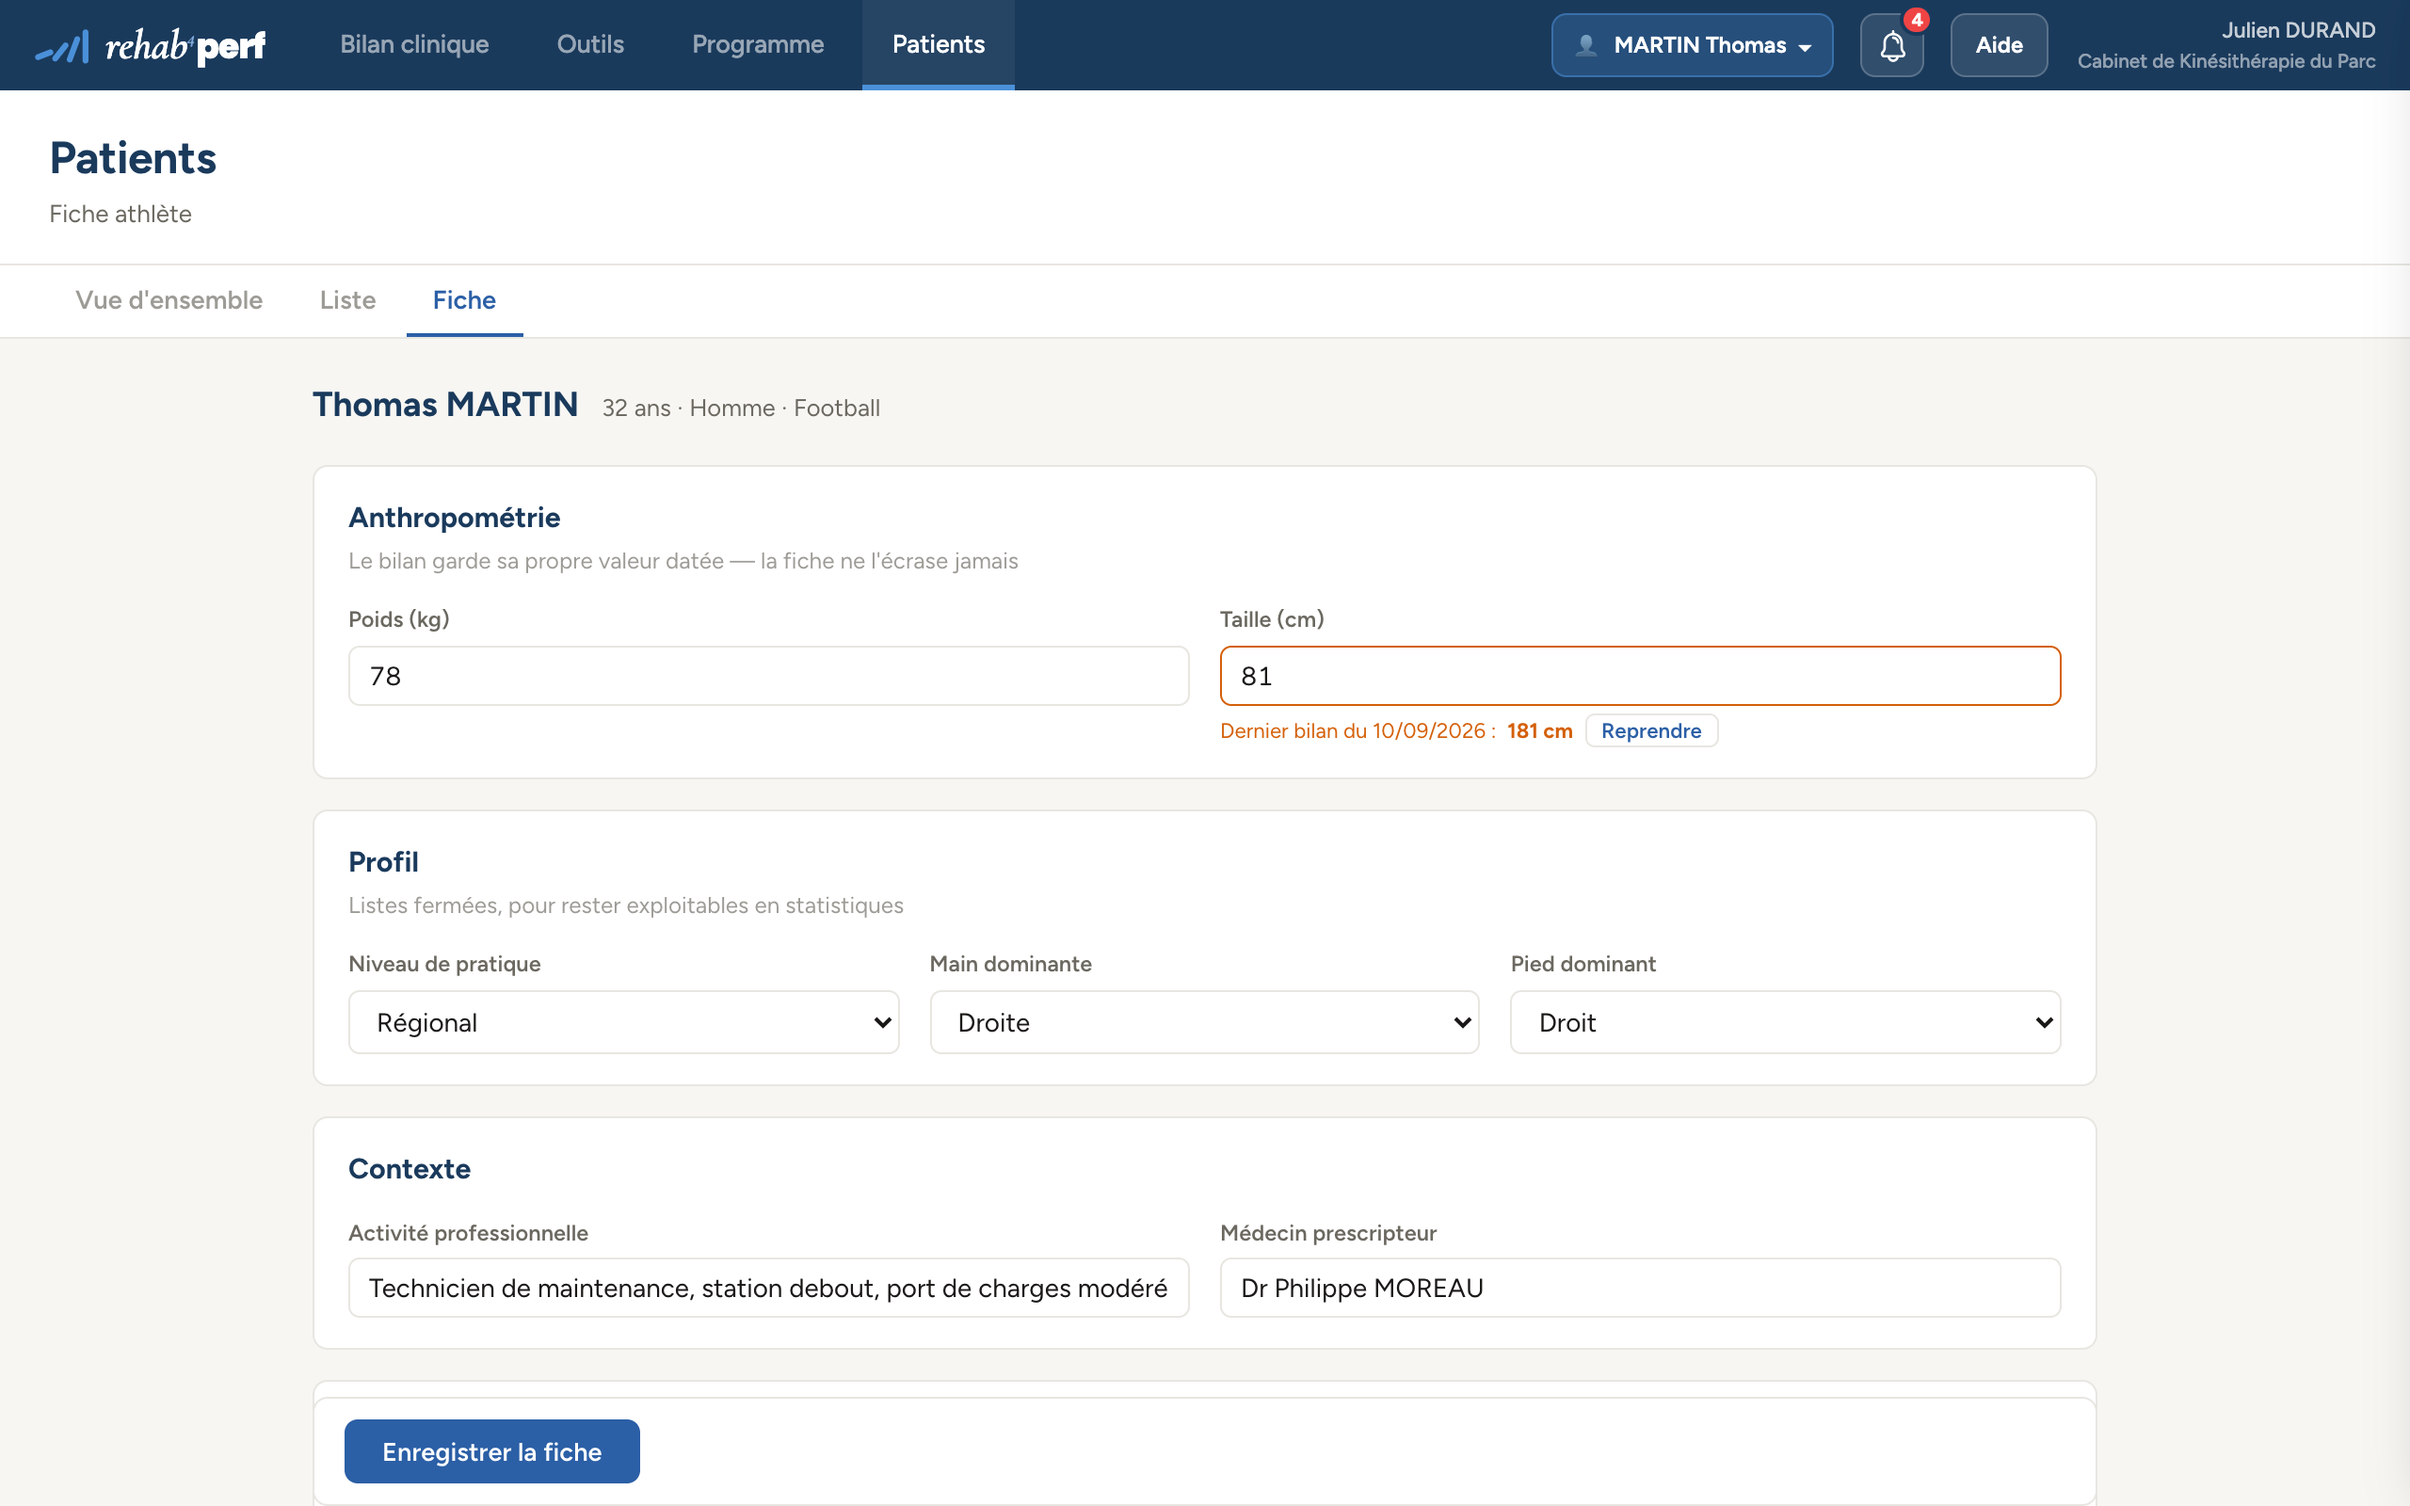
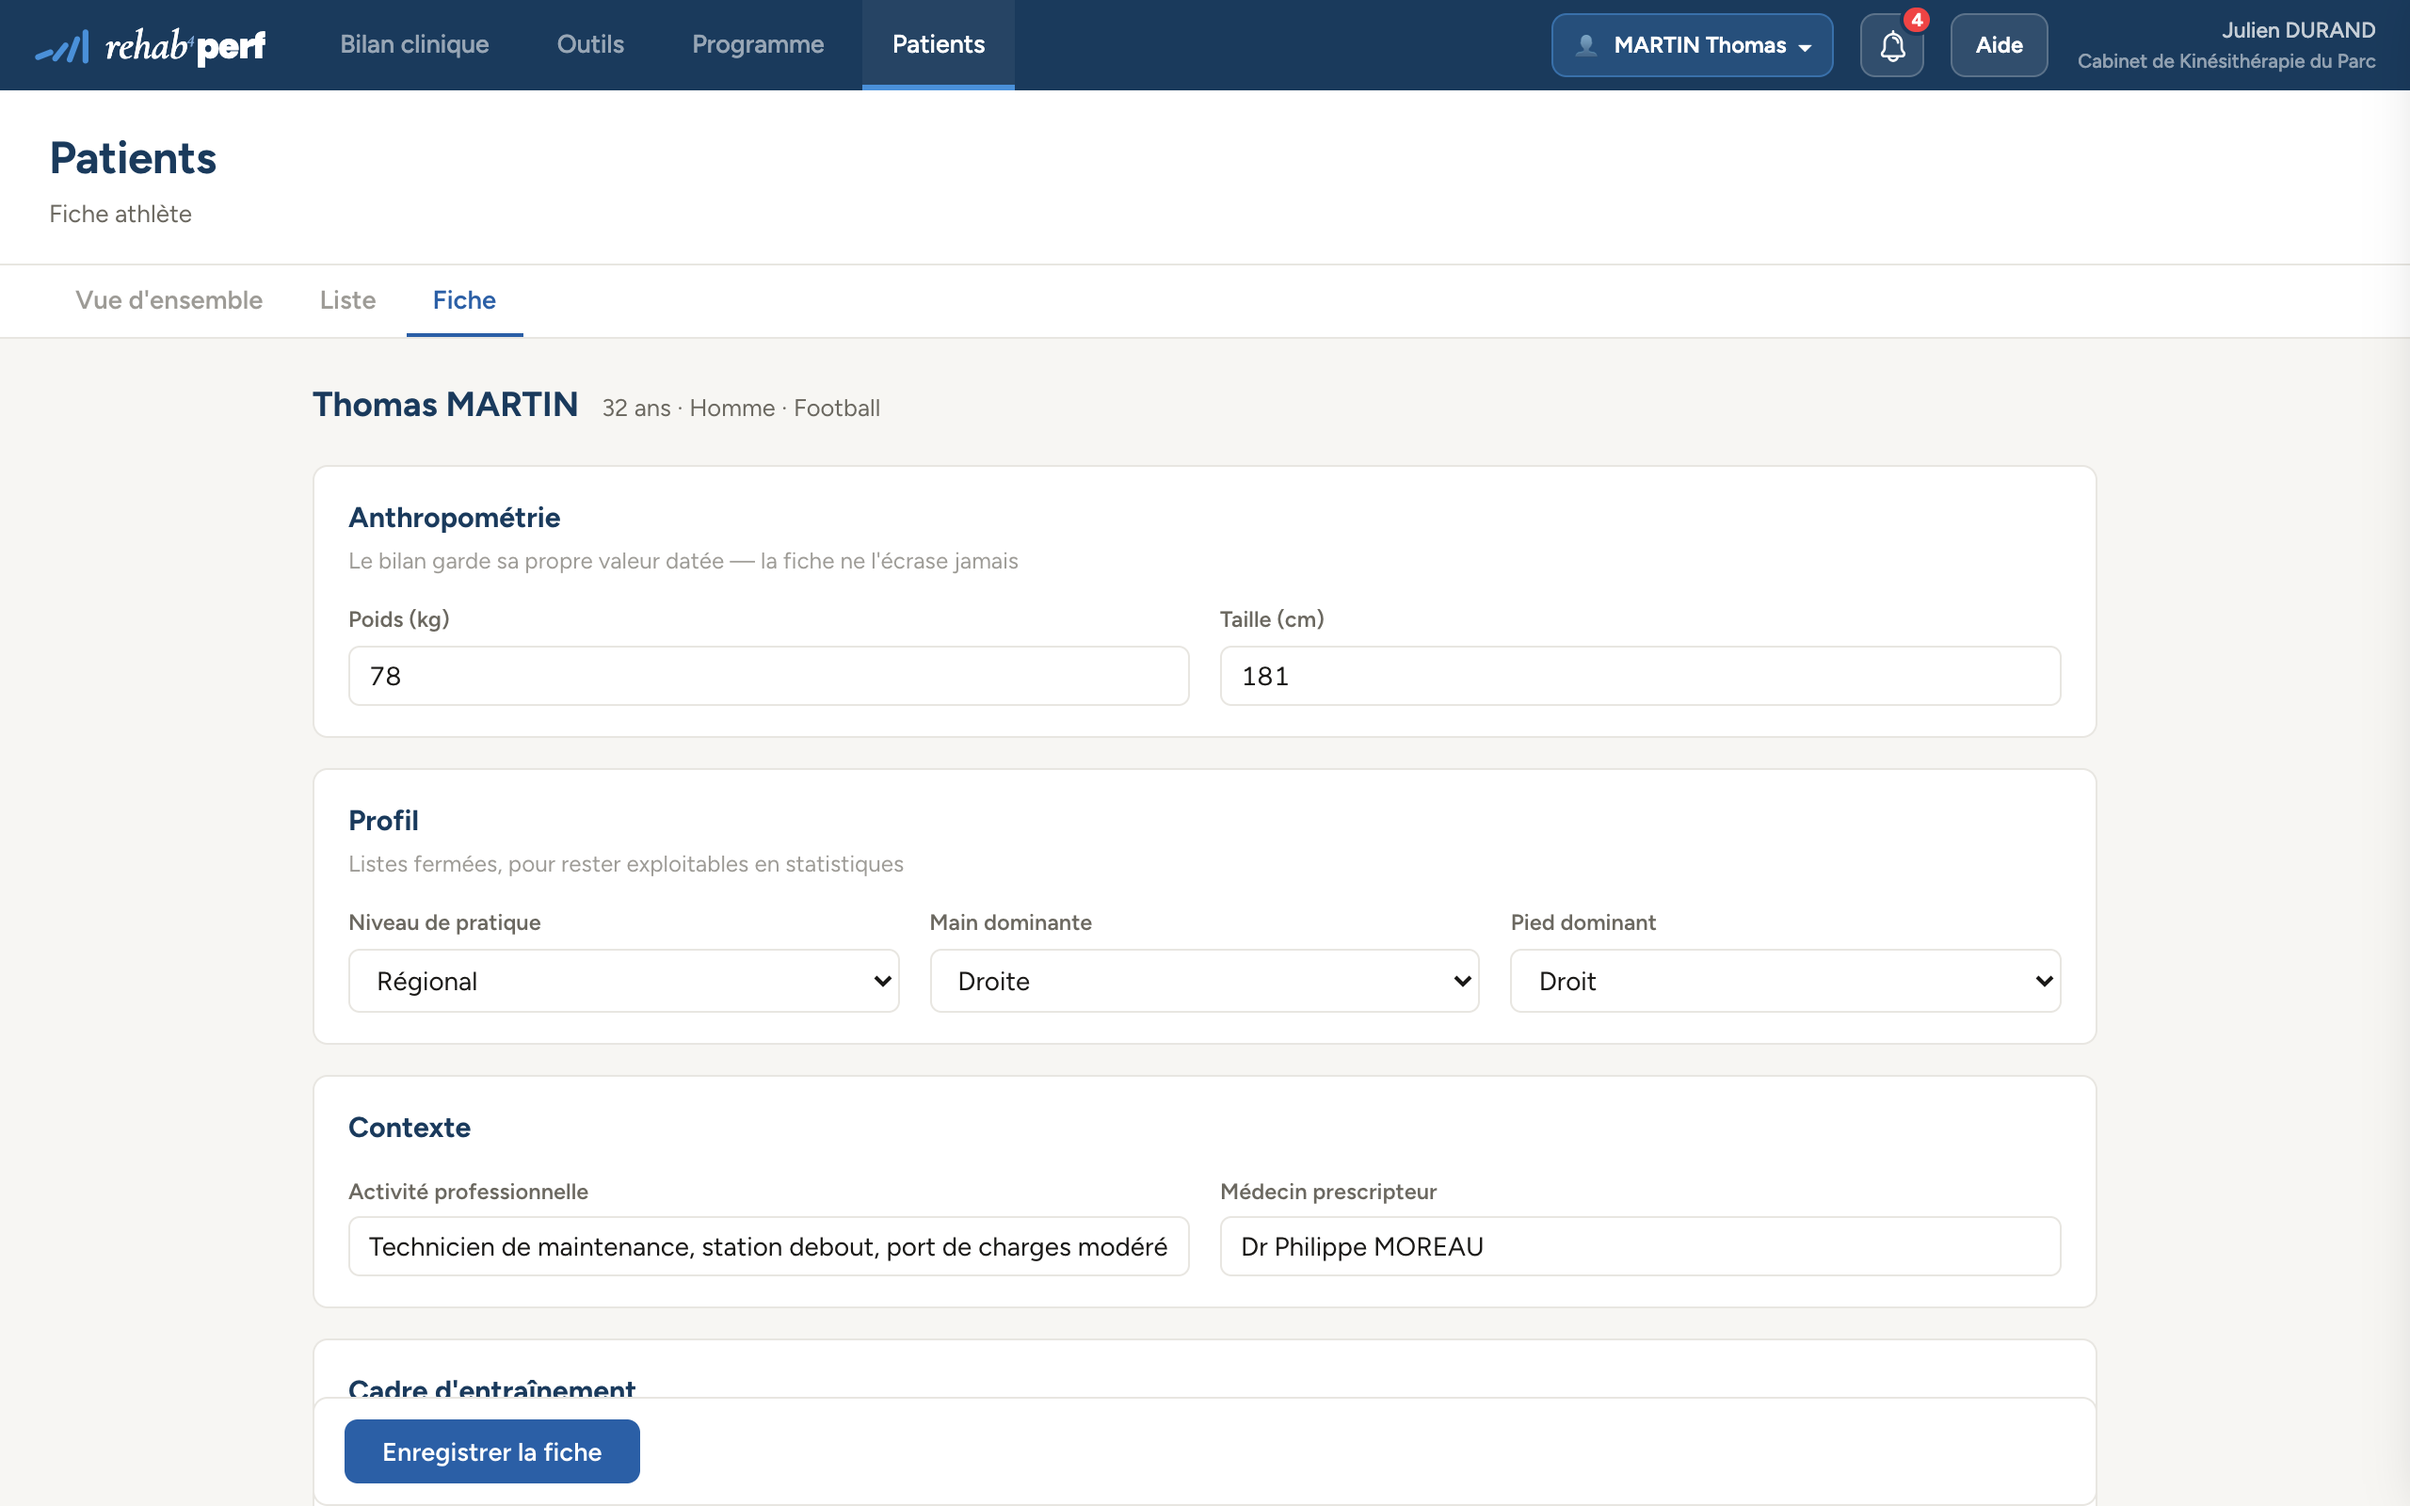
docs(aide): fiche athlète recapturée — taille démo corrigée (181 cm)

diff --git a/sw-pro.js b/sw-pro.js
@@ -12,7 +12,7 @@
    - /athlete.html → ignoré (géré par sw.js, scope plus spécifique).
    Bump CACHE à chaque changement de logique de cache.
    ═══════════════════════════════════════════════════════════════════ */
-var CACHE = 'r4p-pro-v274';
+var CACHE = 'r4p-pro-v275';
 var PRECACHE = [
   '/',
   '/index.html',
